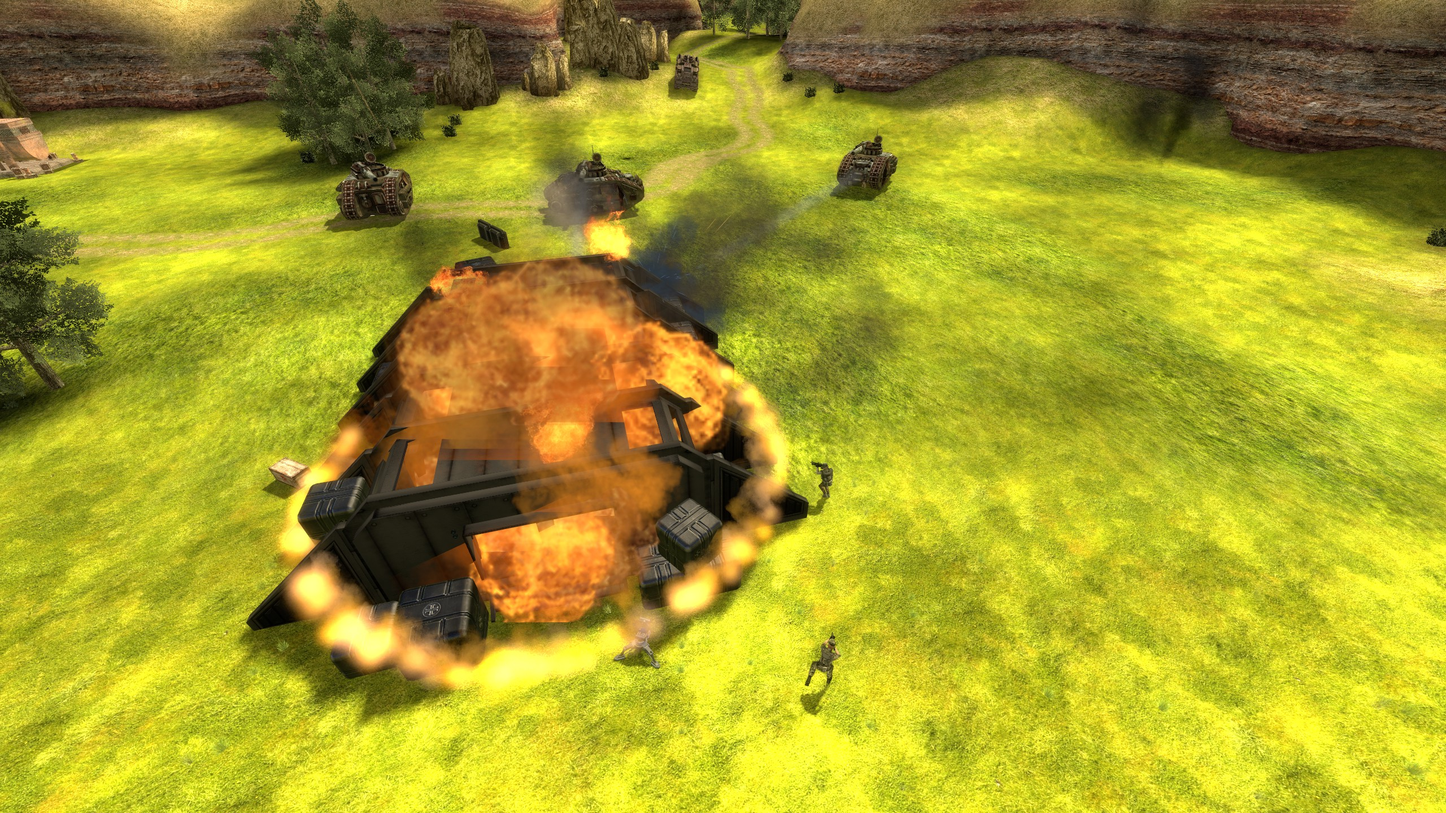
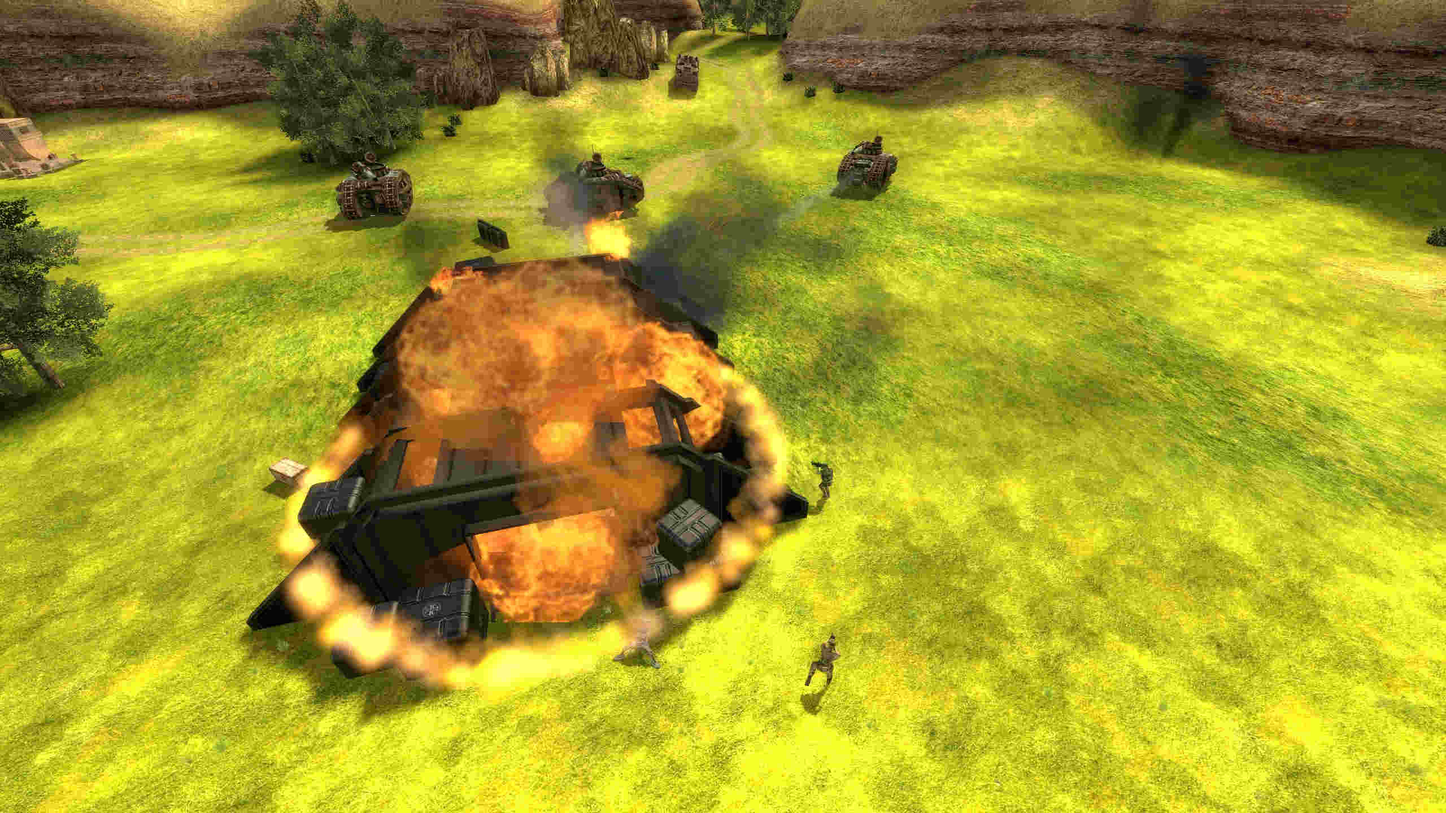
Optimized the images down to at most 150kb per slide, removed background and css that is no longer used

diff --git a/css/all.css b/css/all.css
@@ -1,8 +1,3 @@
-body {
-    color: #B8B8B8;
-    background: url(../img/bg.png);
-}
-
 .caret {
 	margin-left: 0.5em;
 }
